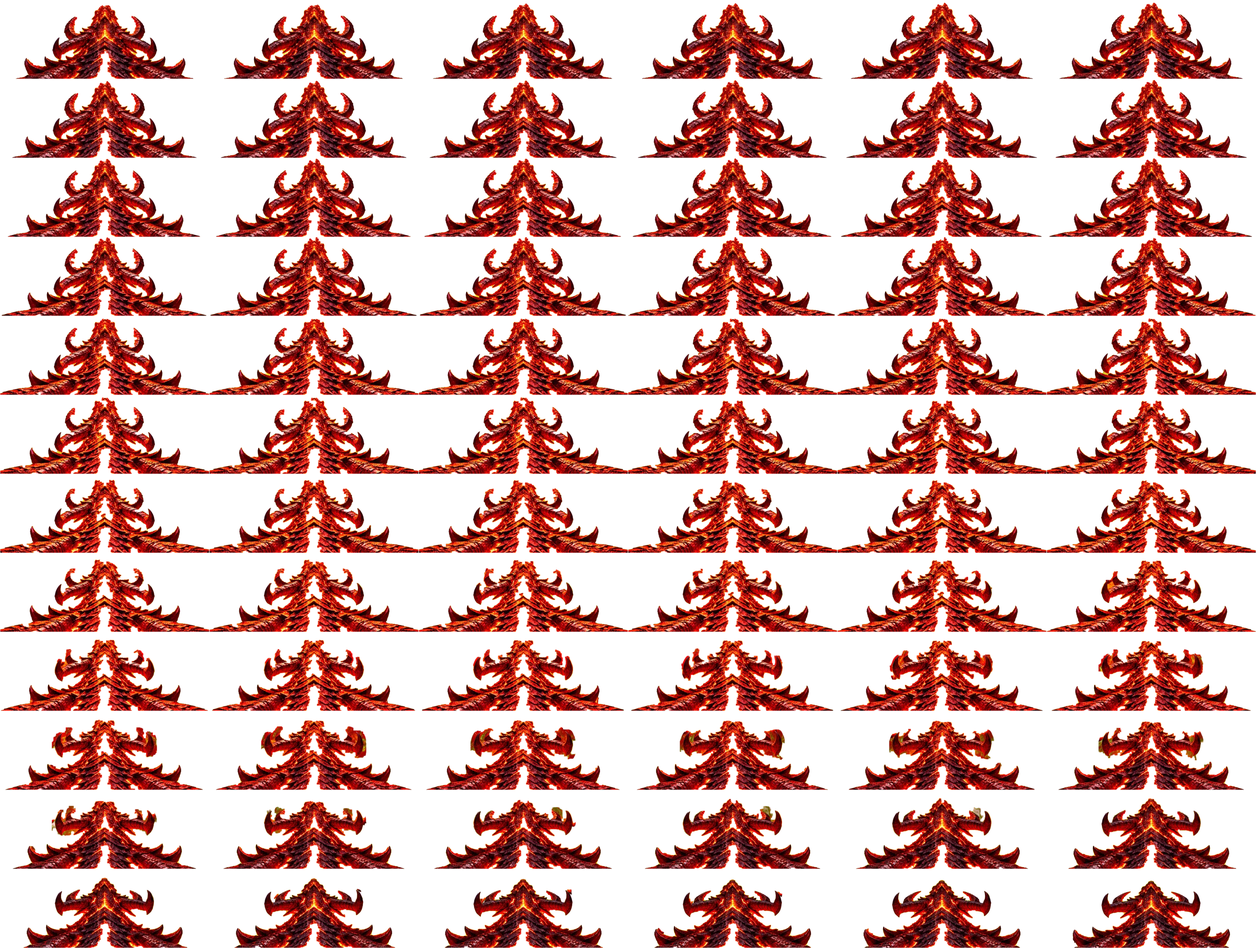
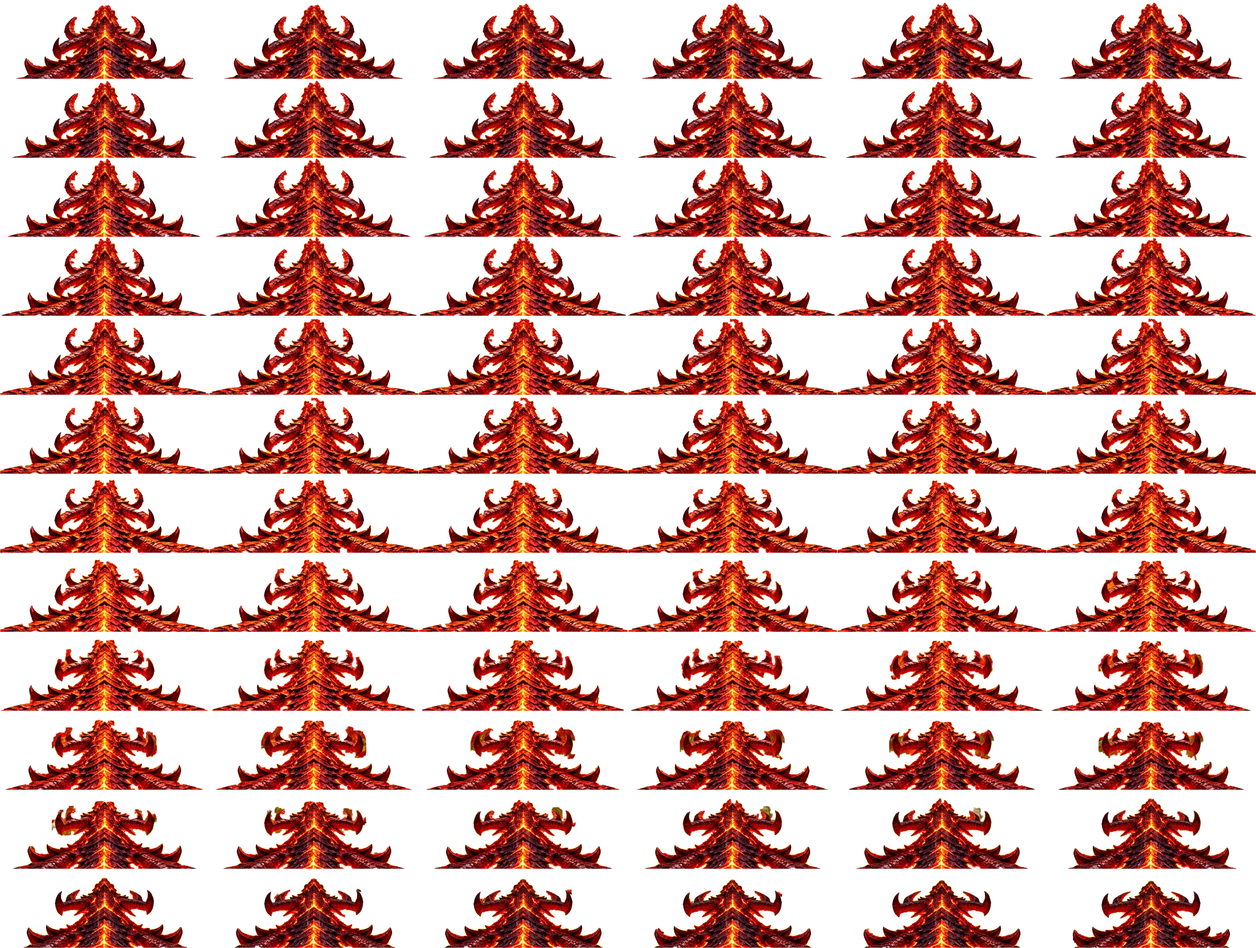
dragon head sheet: the lava spine down the middle of the head is now part of the cut-out (it left a hole in the head)

diff --git a/mtg/scripts/cut-dragon-head-frames.py b/mtg/scripts/cut-dragon-head-frames.py
@@ -19,6 +19,9 @@ TOP = 380      # only the part of the frame below this row
 STEP = 2       # every second frame (24 -> 12 pictures a second)
 SCALE = 0.72   # the sheet is a little smaller than the video
 COLS = 6
+SPINE_X = 631     # the middle of the head in the video's pixels, and how far from it the lava spine reaches
+SPINE_HALF = 70
+SPINE_FROM = 105  # rows of the cut-out part of the frame (counted from TOP) below which the spine is filled
 
 def mask_of(path, prior=None):
     a = np.asarray(Image.open(path).convert("RGBA")).astype(np.float32)[TOP:] / 255.0
@@ -28,6 +31,14 @@ def mask_of(path, prior=None):
     mean = ndi.uniform_filter(r, 9)
     spread = np.sqrt(np.maximum(ndi.uniform_filter(r * r, 9) - mean * mean, 0))
     dark &= ~((r > 0.85) & (spread < 0.10))
+    # the bright lava running down the middle of the head is part of it (it is the brightest thing on it, so the colour rule alone would cut a hole there)
+    if True:
+        pr_ = prior if prior is not None else True
+        xs_ = np.arange(a.shape[1])[None, :]
+        rows_ = np.arange(a.shape[0])[:, None]
+        # (a narrow corridor that widens downwards, and only below the snout: above it is the beam)
+        half = np.clip(10 + (rows_ - SPINE_FROM) * 0.45, 0, SPINE_HALF)
+        dark |= (al > 0.5) & (rows_ >= SPINE_FROM) & (np.abs(xs_ - SPINE_X) < half) & pr_
     if prior is not None:
         dark &= prior                      # (smoke and sparks away from the head are not the head)
     dark = ndi.binary_opening(dark, structure=np.ones((3, 3)))
